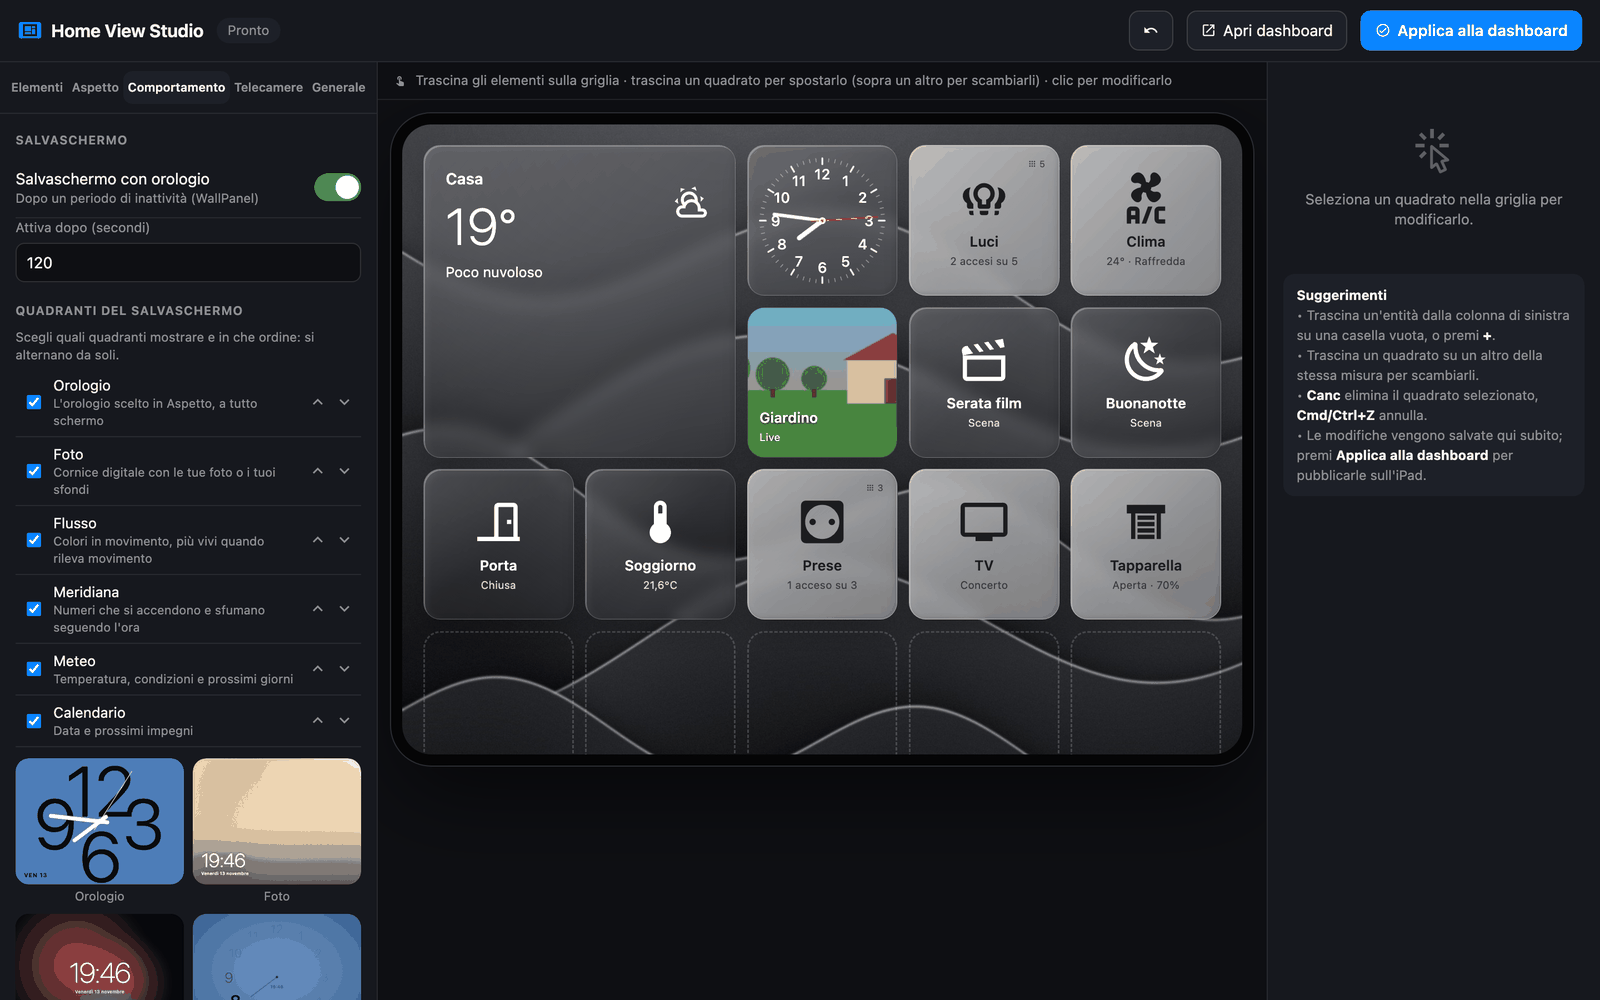
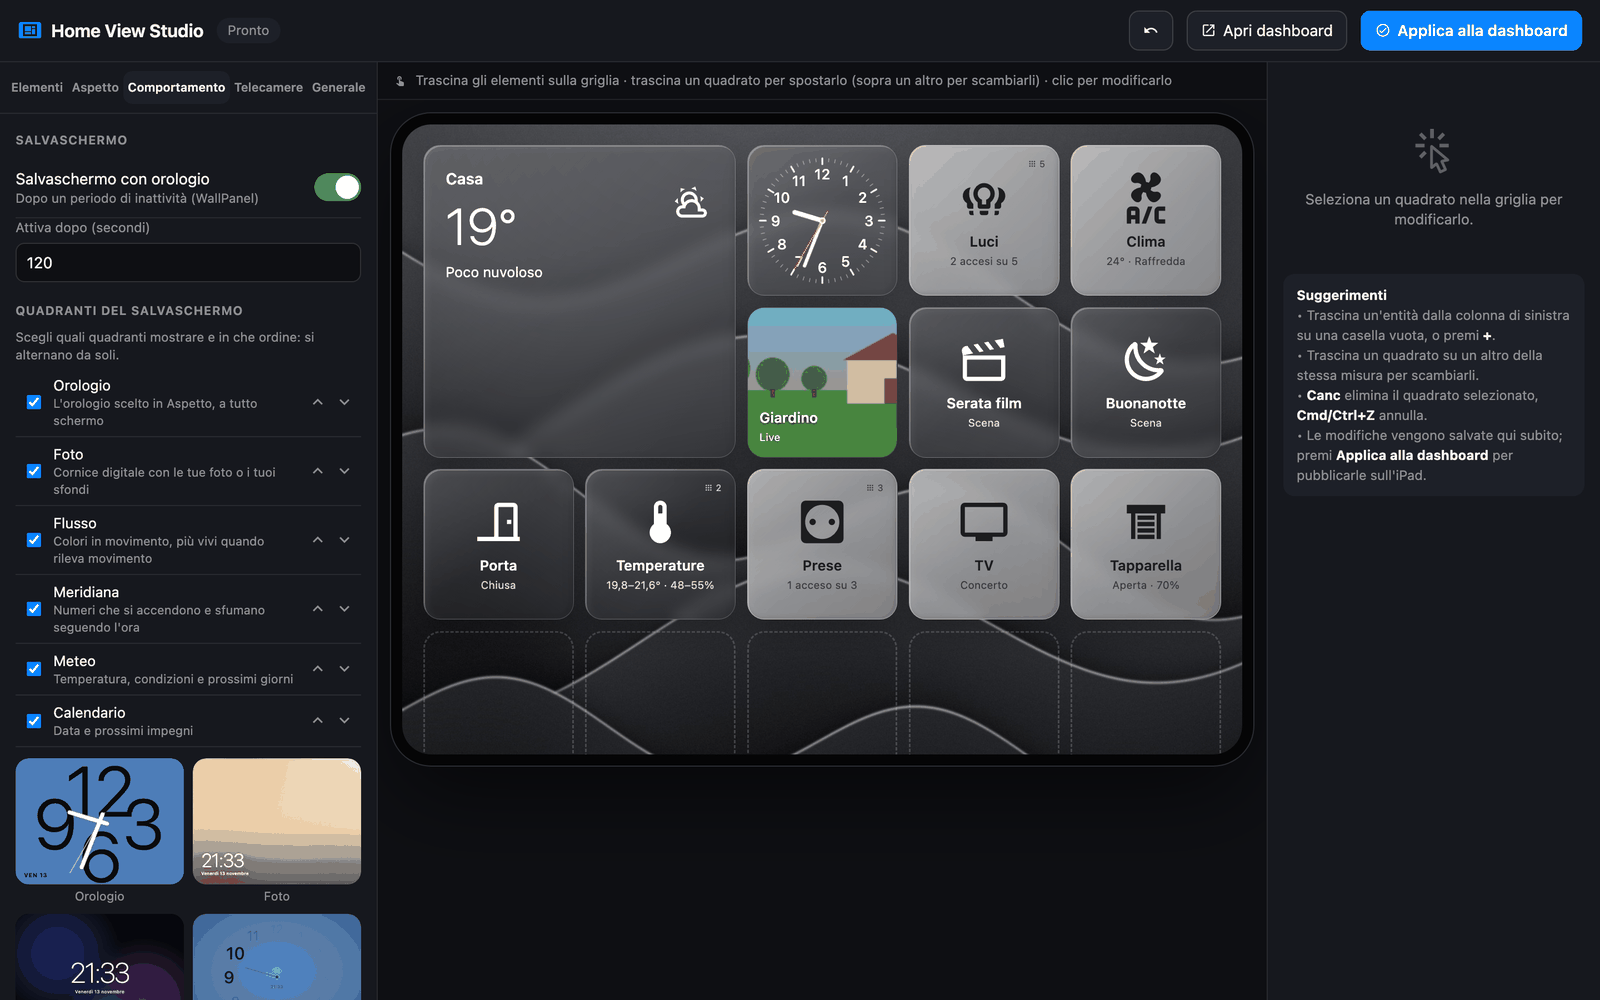
Screenshot aggiornati; anteprima umidità e telecamere (1.9.2)

diff --git a/homeview_studio/app/www/index.html b/homeview_studio/app/www/index.html
@@ -552,7 +552,8 @@ function tileHTML(t, i) {
       const rg = (arr, u) => { if (!arr.length) return '–'; const mn = Math.min(...arr), mx = Math.max(...arr); return (mn === mx ? f(mn) : f(mn) + '–' + f(mx)) + u; };
       const num = sts.filter(s => !isNaN(parseFloat(s.state))); const u = num.length ? (num[0].unit || '') : '';
       label = rg(num.map(s => parseFloat(s.state)), u.startsWith('°') ? '°' : (u ? ' ' + u : ''));
-      const hums = sts.map(s => EM[s.entity_id.replace('temperature', 'humidity')] || EM[s.entity_id.replace('temperatura', 'umidita')]).filter(h => h && h.entity_id.includes('hum') || h && h.entity_id.includes('umid')).filter(h => !isNaN(parseFloat(h.state)));
+      const humOf = (id) => { for (const [x, y] of [['temperature', 'humidity'], ['temperatura', 'umidita'], ['_temp', '_hum']]) { if (id.includes(x)) { const c = id.replace(x, y); if (c !== id && EM[c]) return EM[c]; } } return null; };
+      const hums = sts.map(s => humOf(s.entity_id)).filter(h => h && !isNaN(parseFloat(h.state)));
       if (hums.length) label += ' · ' + rg(hums.map(h => Math.round(parseFloat(h.state))), '%');
     }
     return {cls: n ? 'on' : '', html:`<span class="badge"><i class="mdi mdi-dots-grid"></i> ${(t.entities || []).length}</span><i class="mdi mdi-${esc((t.icon || 'mdi:lightbulb-group-outline').replace(/^mdi:/, ''))} ic"></i><div class="nm" data-raw>${esc(t.name || tr('Gruppo'))}</div><div class="lb">${esc(label)}</div>`};
@@ -591,7 +592,7 @@ function renderCamBoard() {
     const featured = cc.layout === 'featured' && n > 1;
     const sz = featured || n === 1 ? 'width:100%;height:100%' : `height:100%;max-width:100%;aspect-ratio:16/9;justify-self:center`;
     return `<div style="grid-area:c${i};${sz};border-radius:${r}px;overflow:hidden;position:relative;background:#000">
-      ${e && e.picture ? `<img src="${esc(e.picture)}" style="width:100%;height:100%;object-fit:${it.fit || 'cover'};display:block" onerror="this.remove()">` : ''}
+      ${e && e.picture ? `<div style="position:absolute;inset:0;background:url('${esc(e.picture)}') center/${it.fit === 'contain' ? 'contain' : 'cover'} no-repeat"></div>` : ''}
       ${cc.show_names !== false ? `<div data-raw style="position:absolute;left:0;right:0;bottom:0;padding:${18 * k}px ${12 * k}px ${9 * k}px;font-weight:600;font-size:${16 * k}px;color:#fff;background:linear-gradient(to top,rgba(0,0,0,.55),transparent)">${esc(name)}</div>` : ''}</div>`;
   }).join('') : '<div class="empty" style="grid-column:1/-1;color:#fff">Nessuna telecamera selezionata</div>';
 }

diff --git a/README.it.md b/README.it.md
@@ -56,10 +56,12 @@ Home View Studio è un add-on (app) per Home Assistant. Mette a disposizione:
 | ![Elementi](docs/screenshots/editor-elementi.png) | ![Gruppo](docs/screenshots/editor-gruppo.png) |
 | **Aspetto e sfondi** | **Orologi (Home, Widget, salvaschermo)** |
 | ![Aspetto](docs/screenshots/editor-aspetto.png) | ![Orologi](docs/screenshots/editor-orologi.png) |
-| **Quadranti del salvaschermo** | **Pagina Telecamere** |
-| ![Salvaschermo](docs/screenshots/editor-salvaschermo.png) | ![Telecamere](docs/screenshots/editor-telecamere.png) |
-| **Comportamento** | **Generale: sorgenti, lingua, ripristino** |
-| ![Comportamento](docs/screenshots/editor-comportamento.png) | ![Generale](docs/screenshots/editor-generale.png) |
+| **Selettore icone** | **Quadranti del salvaschermo** |
+| ![Icone](docs/screenshots/editor-icone.png) | ![Salvaschermo](docs/screenshots/editor-salvaschermo.png) |
+| **Pagina Telecamere** | **Comportamento** |
+| ![Telecamere](docs/screenshots/editor-telecamere.png) | ![Comportamento](docs/screenshots/editor-comportamento.png) |
+| **Generale: sorgenti, lingua, ripristino** | |
+| ![Generale](docs/screenshots/editor-generale.png) | |
 
 ![Anteprima della Home](docs/screenshots/anteprima-home.png)
 

diff --git a/README.md b/README.md
@@ -58,10 +58,12 @@ Home View Studio is an add-on (app) for Home Assistant. It provides:
 | ![Items](docs/screenshots/en/editor-elementi.png) | ![Group](docs/screenshots/en/editor-gruppo.png) |
 | **Appearance and wallpapers** | **Clocks (Home, Widgets, screensaver)** |
 | ![Appearance](docs/screenshots/en/editor-aspetto.png) | ![Clocks](docs/screenshots/en/editor-orologi.png) |
-| **Screensaver faces** | **Cameras page** |
-| ![Screensaver](docs/screenshots/en/editor-salvaschermo.png) | ![Cameras](docs/screenshots/en/editor-telecamere.png) |
-| **Behavior** | **General: sources, language, restore** |
-| ![Behavior](docs/screenshots/en/editor-comportamento.png) | ![General](docs/screenshots/en/editor-generale.png) |
+| **Icon picker** | **Screensaver faces** |
+| ![Icons](docs/screenshots/en/editor-icone.png) | ![Screensaver](docs/screenshots/en/editor-salvaschermo.png) |
+| **Cameras page** | **Behavior** |
+| ![Cameras](docs/screenshots/en/editor-telecamere.png) | ![Behavior](docs/screenshots/en/editor-comportamento.png) |
+| **General: sources, language, restore** | |
+| ![General](docs/screenshots/en/editor-generale.png) | |
 
 ![Home preview](docs/screenshots/en/anteprima-home.png)
 

diff --git a/homeview_studio/CHANGELOG.md b/homeview_studio/CHANGELOG.md
@@ -1,5 +1,9 @@
 # Changelog
 
+## 1.9.2
+- Editor: humidity shown next to temperatures in the preview; more reliable camera previews. Updated screenshots.
+- Editor: umidità accanto alle temperature anche nell'anteprima; anteprima telecamere più affidabile. Screenshot aggiornati.
+
 ## 1.9.1
 - Sensor groups show the value range; temperature sensors get their matching humidity (tile and popup).
 - I gruppi di sensori mostrano l'intervallo dei valori; accanto alle temperature compare l'umidità (quadrato e popup).
